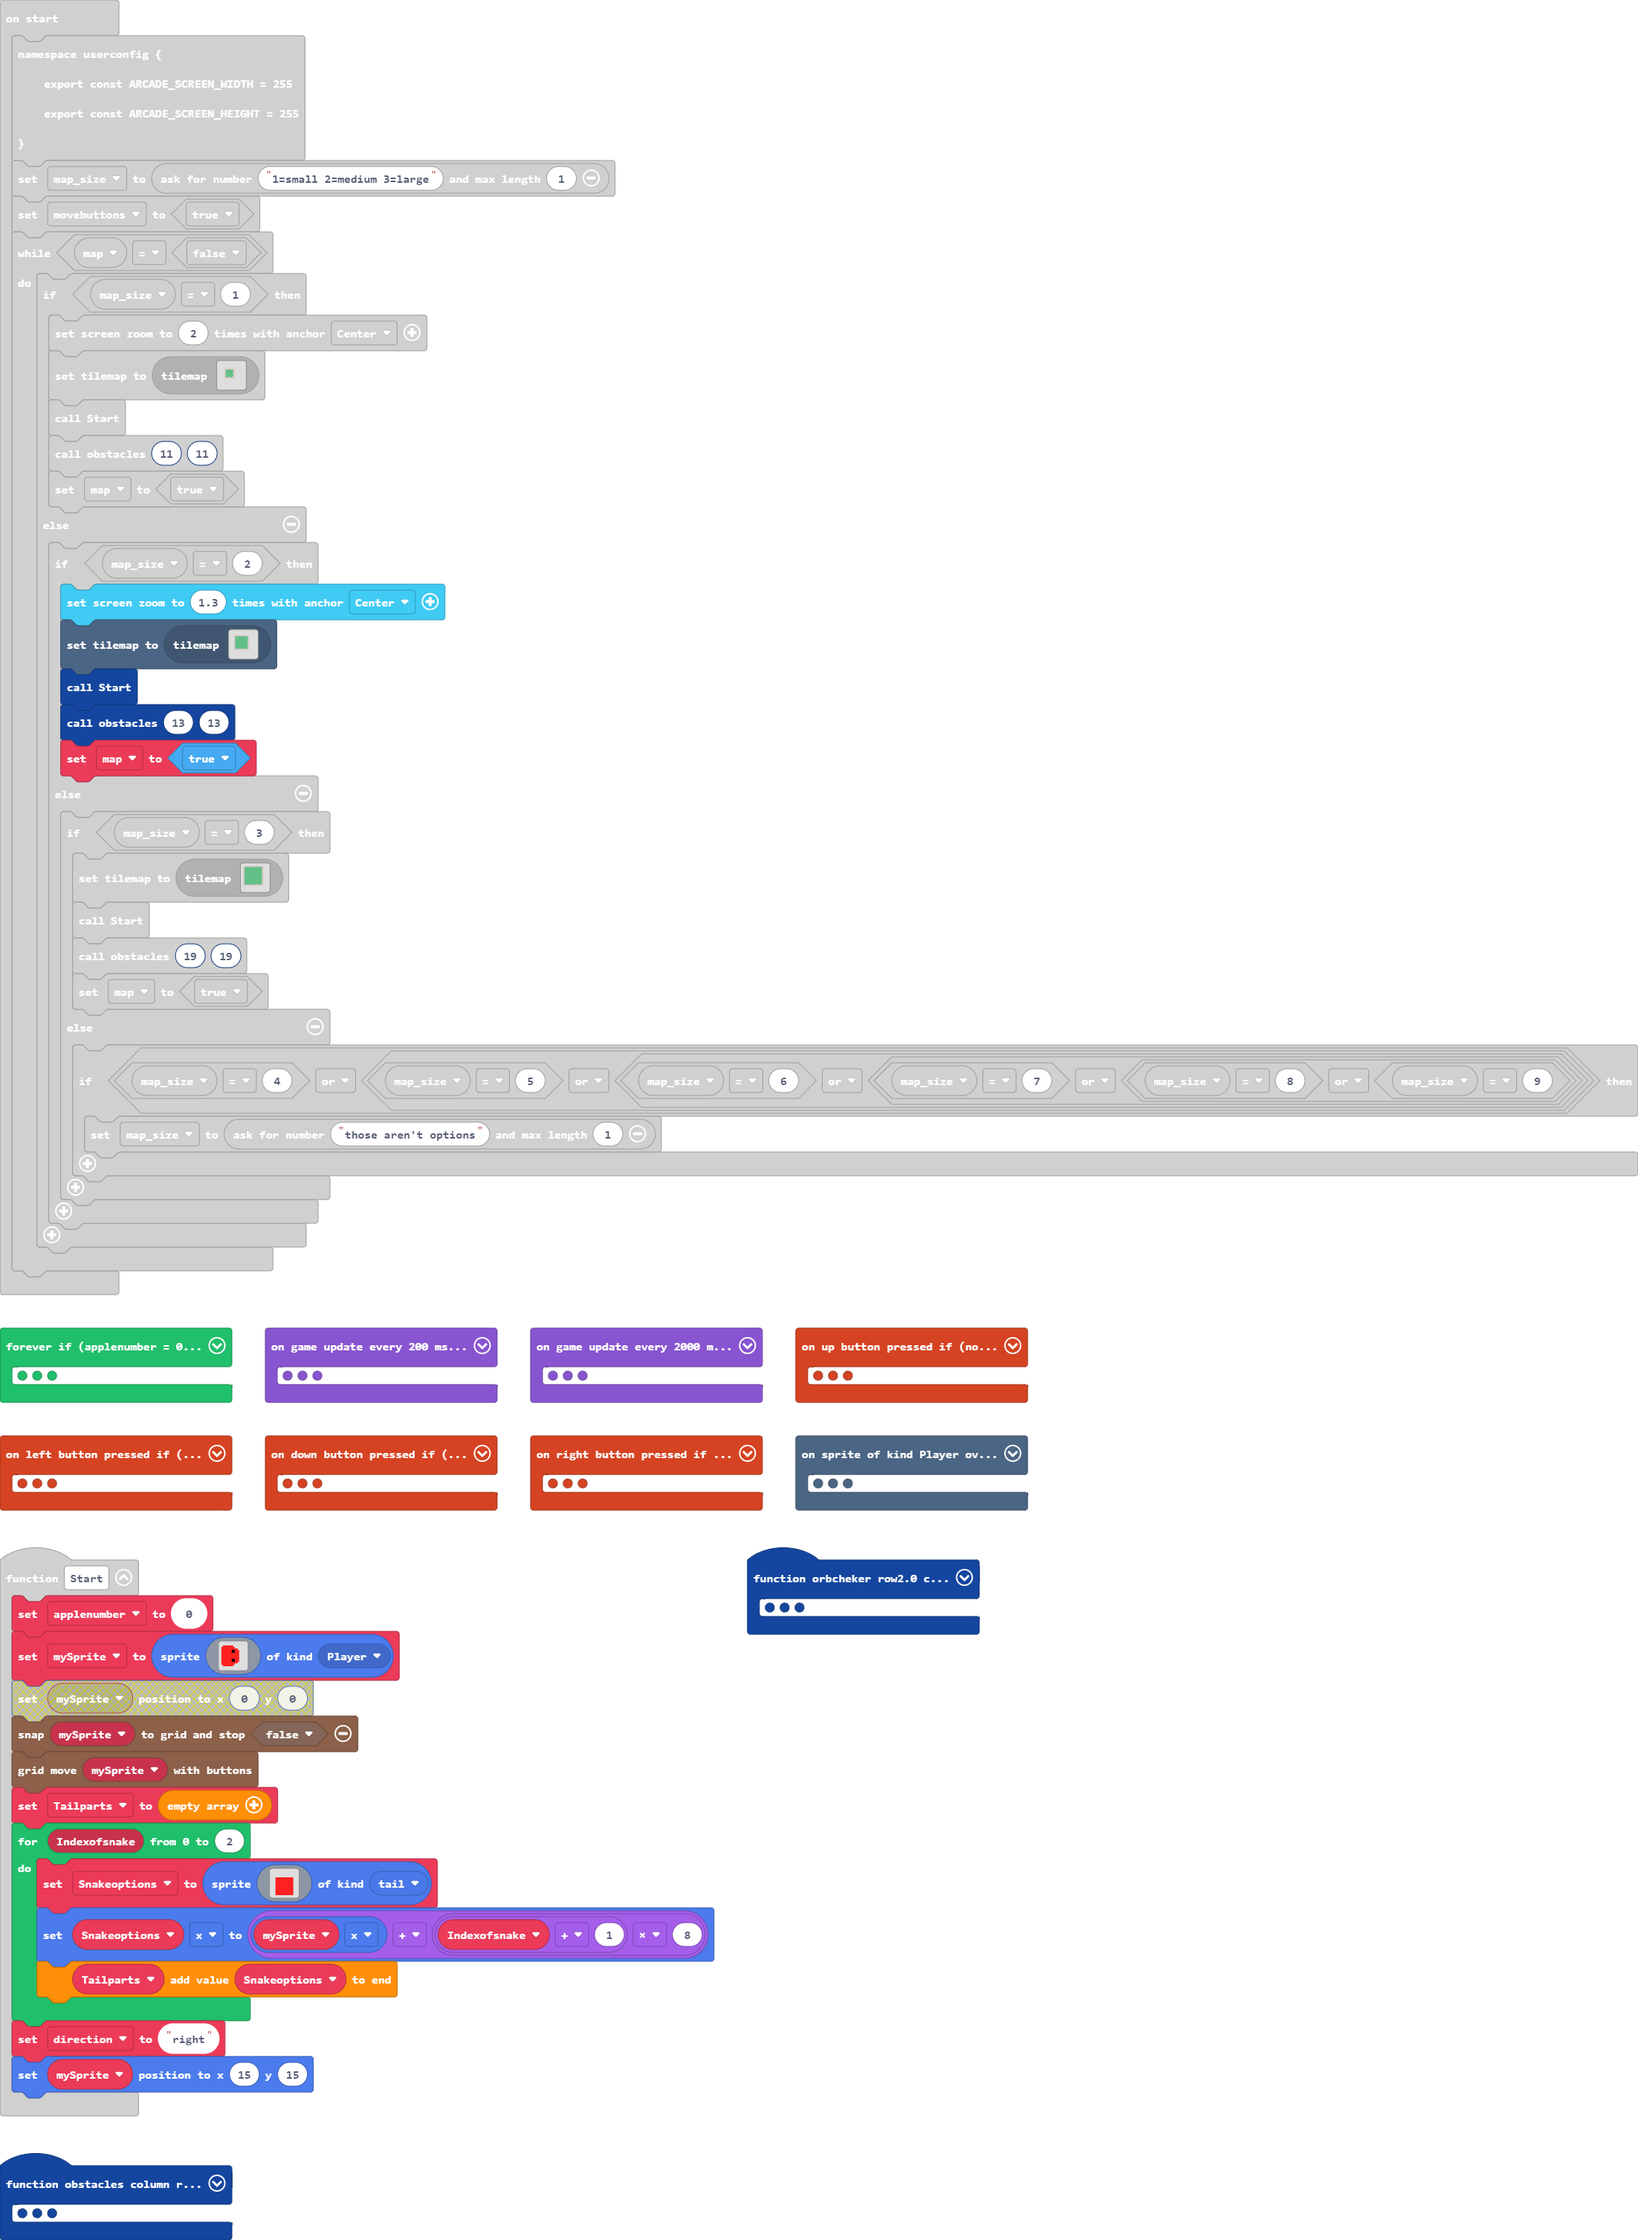
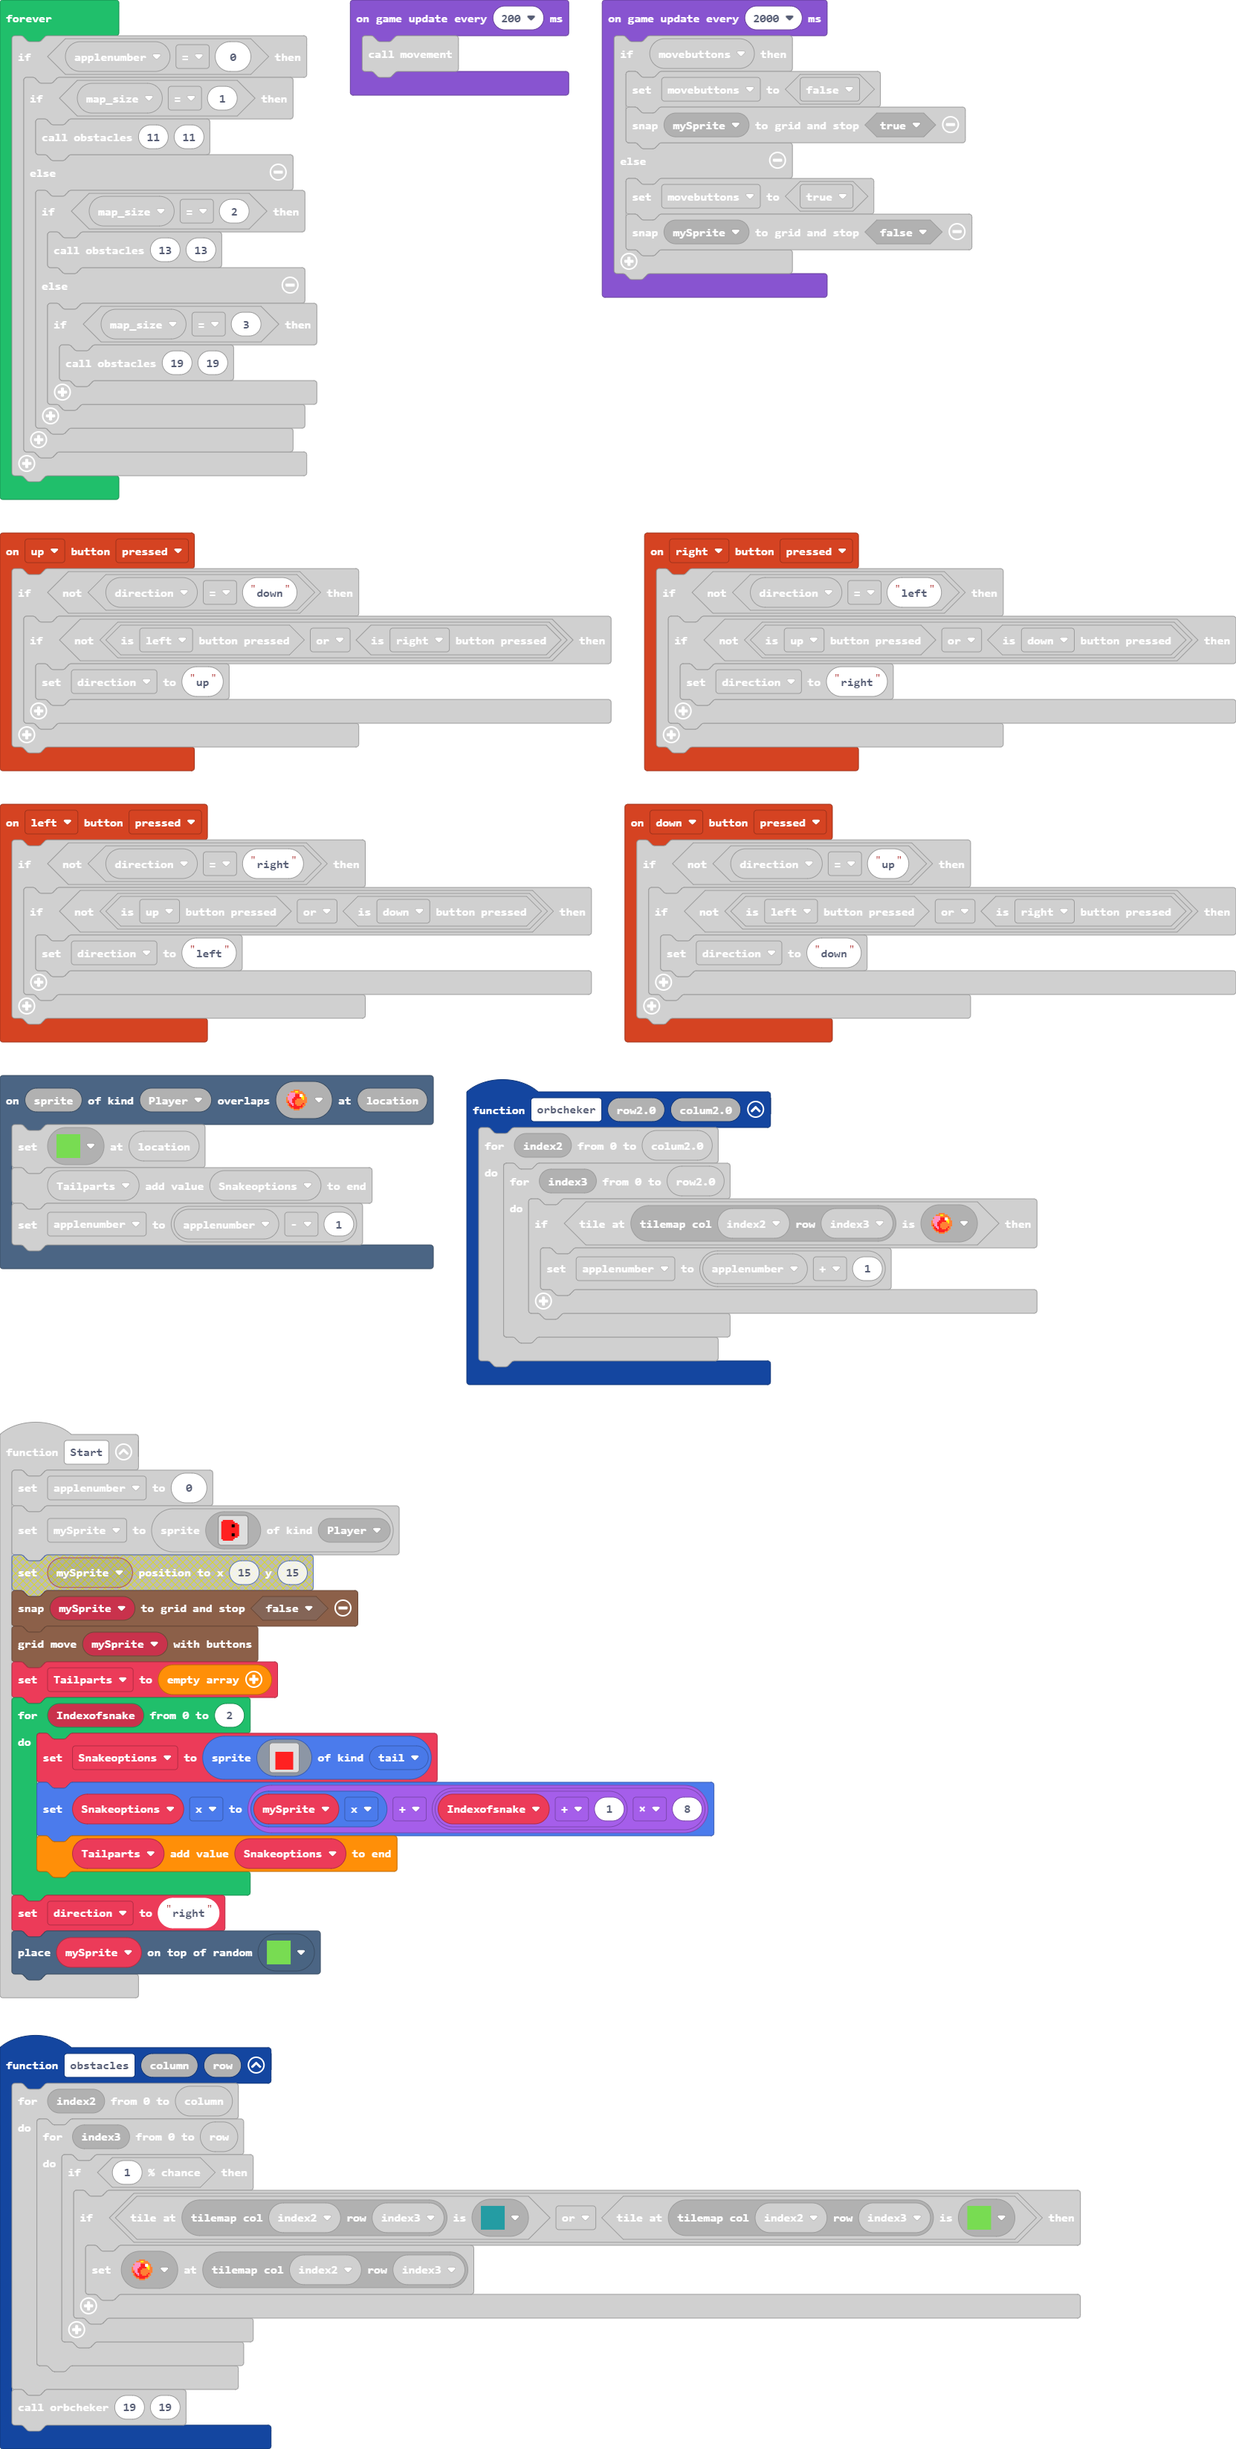
Update main.blocks, main.ts, tilemap.g.jres, tilemap.g.ts

diff --git a/tilemap.g.ts b/tilemap.g.ts
@@ -309,6 +309,63 @@ namespace myTiles {
 . . . . . . . . . . . . . . . . 
 . . . . . . . . . . . . . . . . 
 `, [myTiles.transparency16], TileScale.Sixteen);
+            case "level15":
+            case "level15":return tiles.createTilemap(hex`1000100000000000000000000000000000000000000000000000000000000000000000000000000000000000000000000000000000000000000000000000000000000000000000000000000000000000000000000000000000000000000000000000000000000000000000000000000000000000000000000000000000000000000000000000000000000000000000000000000000000000000000000000000000000000000000000000000000000000000000000000000000000000000000000000000000000000000000000000000000000000000000000000000000000000000000000000000000000000000000000000000000000000000000000000000000000000`, img`
+. . . . . . . . . . . . . . . . 
+. . . . . . . . . . . . . . . . 
+. . . . . . . . . . . . . . . . 
+. . . . . . . . . . . . . . . . 
+. . . . . . . . . . . . . . . . 
+. . . . . . . . . . . . . . . . 
+. . . . . . . . . . . . . . . . 
+. . . . . . . . . . . . . . . . 
+. . . . . . . . . . . . . . . . 
+. . . . . . . . . . . . . . . . 
+. . . . . . . . . . . . . . . . 
+. . . . . . . . . . . . . . . . 
+. . . . . . . . . . . . . . . . 
+. . . . . . . . . . . . . . . . 
+. . . . . . . . . . . . . . . . 
+. . . . . . . . . . . . . . . . 
+`, [myTiles.transparency16], TileScale.Sixteen);
+            case "level16":
+            case "level16":return tiles.createTilemap(hex`1000100000000000000000000000000000000000000000000000000000000000000000000000000000000000000000000000000000000000000000000000000000000000000000000000000000000000000000000000000000000000000000000000000000000000000000000000000000000000000000000000000000000000000000000000000000000000000000000000000000000000000000000000000000000000000000000000000000000000000000000000000000000000000000000000000000000000000000000000000000000000000000000000000000000000000000000000000000000000000000000000000000000000000000000000000000000000`, img`
+. . . . . . . . . . . . . . . . 
+. . . . . . . . . . . . . . . . 
+. . . . . . . . . . . . . . . . 
+. . . . . . . . . . . . . . . . 
+. . . . . . . . . . . . . . . . 
+. . . . . . . . . . . . . . . . 
+. . . . . . . . . . . . . . . . 
+. . . . . . . . . . . . . . . . 
+. . . . . . . . . . . . . . . . 
+. . . . . . . . . . . . . . . . 
+. . . . . . . . . . . . . . . . 
+. . . . . . . . . . . . . . . . 
+. . . . . . . . . . . . . . . . 
+. . . . . . . . . . . . . . . . 
+. . . . . . . . . . . . . . . . 
+. . . . . . . . . . . . . . . . 
+`, [myTiles.transparency16], TileScale.Sixteen);
+            case "level17":
+            case "level17":return tiles.createTilemap(hex`1000100000000000000000000000000000000000000000000000000000000000000000000000000000000000000000000000000000000000000000000000000000000000000000000000000000000000000000000000000000000000000000000000000000000000000000000000000000000000000000000000000000000000000000000000000000000000000000000000000000000000000000000000000000000000000000000000000000000000000000000000000000000000000000000000000000000000000000000000000000000000000000000000000000000000000000000000000000000000000000000000000000000000000000000000000000000000`, img`
+. . . . . . . . . . . . . . . . 
+. . . . . . . . . . . . . . . . 
+. . . . . . . . . . . . . . . . 
+. . . . . . . . . . . . . . . . 
+. . . . . . . . . . . . . . . . 
+. . . . . . . . . . . . . . . . 
+. . . . . . . . . . . . . . . . 
+. . . . . . . . . . . . . . . . 
+. . . . . . . . . . . . . . . . 
+. . . . . . . . . . . . . . . . 
+. . . . . . . . . . . . . . . . 
+. . . . . . . . . . . . . . . . 
+. . . . . . . . . . . . . . . . 
+. . . . . . . . . . . . . . . . 
+. . . . . . . . . . . . . . . . 
+. . . . . . . . . . . . . . . . 
+`, [myTiles.transparency16], TileScale.Sixteen);
         }
         return null;
     })

diff --git a/main.ts b/main.ts
@@ -8,6 +8,11 @@ controller.up.onEvent(ControllerButtonEvent.Pressed, function () {
         }
     }
 })
+scene.onOverlapTile(SpriteKind.Player, assets.tile`myTile`, function (sprite, location) {
+    tiles.setTileAt(location, assets.tile`myTile0`)
+    Tailparts.push(Snakeoptions)
+    applenumber = applenumber - 1
+})
 function movement () {
     Snakeoptions = sprites.create(img`
         . . . . . . . . . . . . . . . . 
@@ -139,7 +144,7 @@ function Start () {
         . 2 2 2 2 2 2 2 . . . . . . . . 
         . . . . . . . . . . . . . . . . 
         `, SpriteKind.Player)
-    mySprite.setPosition(15, 15)
+    tiles.placeOnRandomTile(mySprite, assets.tile`myTile0`)
     grid.snap(mySprite, false)
     grid.moveWithButtons(mySprite)
     Tailparts = []
@@ -181,10 +186,12 @@ controller.right.onEvent(ControllerButtonEvent.Pressed, function () {
         }
     }
 })
-scene.onOverlapTile(SpriteKind.Player, assets.tile`myTile`, function (sprite, location) {
-    tiles.setTileAt(location, assets.tile`myTile0`)
-    Tailparts.push(Snakeoptions)
-    applenumber = applenumber - 1
+controller.down.onEvent(ControllerButtonEvent.Pressed, function () {
+    if (!(direction == "up")) {
+        if (!(controller.left.isPressed() || controller.right.isPressed())) {
+            direction = "down"
+        }
+    }
 })
 function obstacles (column: number, row: number) {
     for (let index2 = 0; index2 <= column; index2++) {
@@ -198,13 +205,6 @@ function obstacles (column: number, row: number) {
     }
     orbcheker(19, 19)
 }
-controller.down.onEvent(ControllerButtonEvent.Pressed, function () {
-    if (!(direction == "up")) {
-        if (!(controller.left.isPressed() || controller.right.isPressed())) {
-            direction = "down"
-        }
-    }
-})
 function orbcheker (row20: number, colum20: number) {
     for (let index2 = 0; index2 <= colum20; index2++) {
         for (let index3 = 0; index3 <= row20; index3++) {
@@ -214,10 +214,10 @@ function orbcheker (row20: number, colum20: number) {
         }
     }
 }
-let applenumber = 0
-let Tailparts: Sprite[] = []
 let mySprite: Sprite = null
+let applenumber = 0
 let Snakeoptions: Sprite = null
+let Tailparts: Sprite[] = []
 let direction = ""
 let map = false
 namespace userconfig {
@@ -254,6 +254,15 @@ while (map == false) {
         }
     }
 }
+game.onUpdateInterval(2000, function () {
+    if (movebuttons) {
+        movebuttons = false
+        grid.snap(mySprite, true)
+    } else {
+        movebuttons = true
+        grid.snap(mySprite, false)
+    }
+})
 forever(function () {
     if (applenumber == 0) {
         if (map_size == 1) {
@@ -271,13 +280,4 @@ forever(function () {
 })
 game.onUpdateInterval(200, function () {
     movement()
-})
-game.onUpdateInterval(2000, function () {
-    if (movebuttons) {
-        movebuttons = false
-        grid.snap(mySprite, true)
-    } else {
-        movebuttons = true
-        grid.snap(mySprite, false)
-    }
 })
